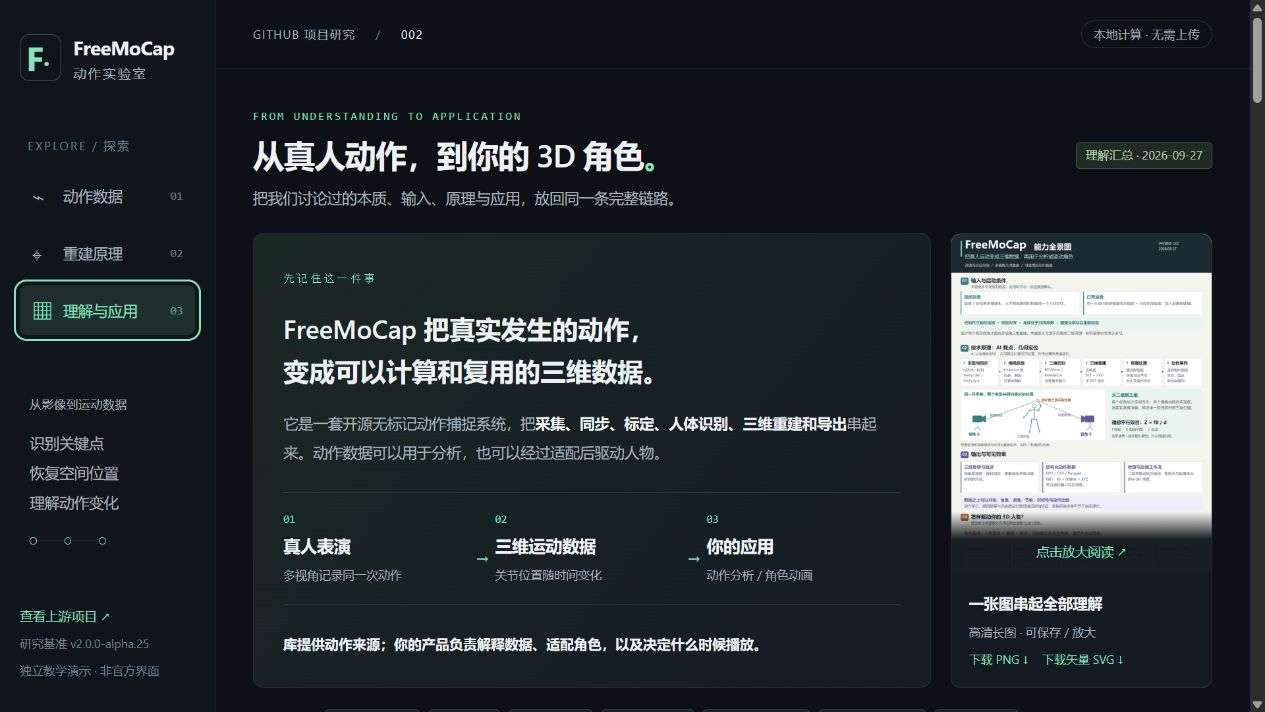
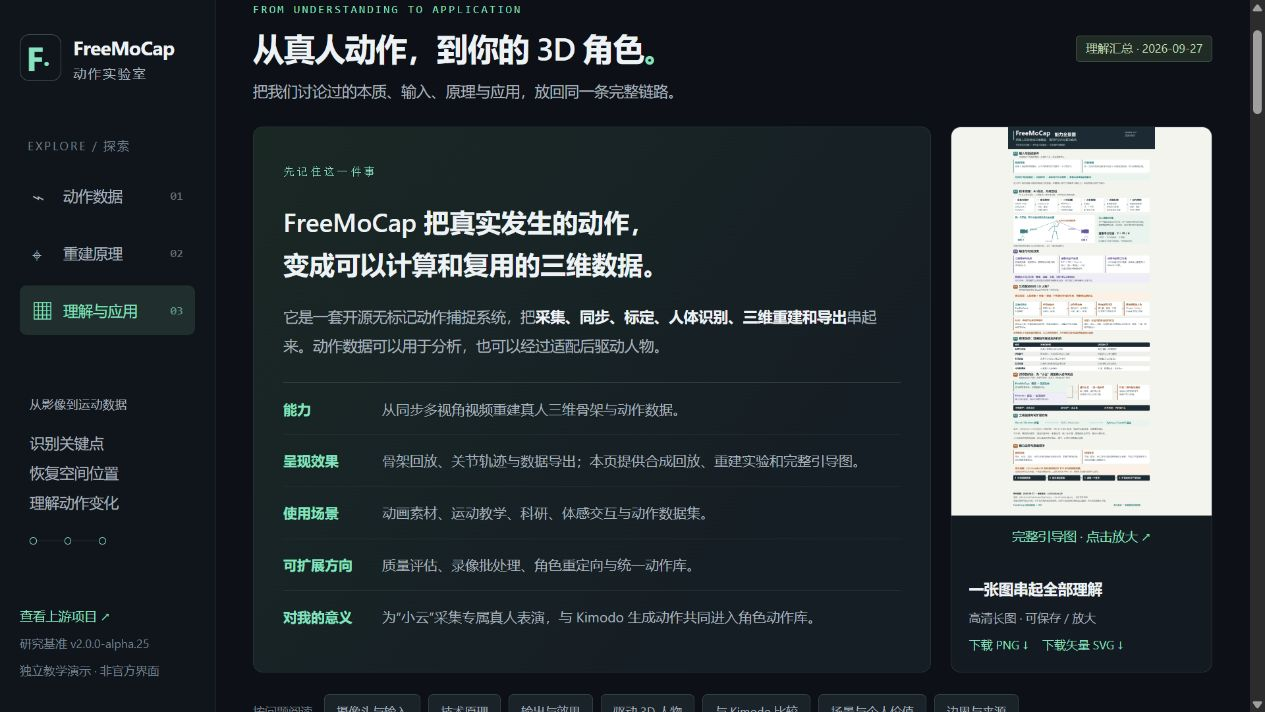
docs: link verified FreeMoCap deployment and public preview

diff --git a/README.md b/README.md
@@ -15,7 +15,7 @@
 
 | 编号 | 项目与研究入口 | 摘要 | 研究状态 | 参考来源 | Web 演示 |
 | --- | --- | --- | --- | --- | --- |
-| 002 | [FreeMoCap 动作实验室](projects/002-freemocap-lab/README.md) | **能力：**从同步多视角视频重建真人三维骨架与动作数据<br>**呈现效果：**骨架回放、关节轨迹及数据导出，本页提供合成回放与重建实验<br>**使用场景：**动画素材、运动教学、科研、体感交互与动作数据集<br>**可扩展方向：**质量评估、批处理、角色重定向与统一动作库<br>**对我的意义：**为“小云”采集专属真人表演，与 Kimodo 生成动作共同进入角色动作库。 | 已完成 | [GitHub](https://github.com/freemocap/freemocap) | — |
+| 002 | [FreeMoCap 动作实验室](projects/002-freemocap-lab/README.md) | **能力：**从同步多视角视频重建真人三维骨架与动作数据<br>**呈现效果：**骨架回放、关节轨迹及数据导出，本页提供合成回放与重建实验<br>**使用场景：**动画素材、运动教学、科研、体感交互与动作数据集<br>**可扩展方向：**质量评估、批处理、角色重定向与统一动作库<br>**对我的意义：**为“小云”采集专属真人表演，与 Kimodo 生成动作共同进入角色动作库。 | 已完成 | [GitHub](https://github.com/freemocap/freemocap) | [在线体验](https://yydshly.github.io/0927_codex_project/002-freemocap-lab/#capabilities) |
 | 003 | [Lofi Cities](projects/003-lofi-cities/README.md) | **能力：**动态城市、实时合成音乐与环境混音<br>**效果：**可调节的沉浸氛围<br>**场景：**阅读、工作、放松<br>**扩展：**物件联动、时间变化与空间分享<br>**对我：**用独立产品“栖间”验证可保存、可交互的个人环境。 | 已完成 | [Lofi Cities · Istanbul](https://loficities.com/istanbul/) | [在线体验](https://yydshly.github.io/0927_codex_project/003-lofi-cities/) |
 
 ### 项目图片

diff --git a/docs/DEPLOYMENT.md b/docs/DEPLOYMENT.md
@@ -10,7 +10,7 @@
 - Lofi Cities 独立演示：`https://yydshly.github.io/0927_codex_project/003-lofi-cities/`
 - 产品理解：演示地址加 `#understanding`。
 
-003 已于 2026-09-27 完成首次发布和远端网页验证。002 加入本次发布；远端资源与交互验证成功后回填 `project.json` 的 `demo` 字段。
+002 与 003 均已于 2026-09-27 完成发布和远端网页验证，正式地址已写入各自 `project.json` 的 `demo` 字段。FreeMoCap 的五项加粗摘要、完整引导图及 150% 缩放、演示切换和合成 NPY 解析回放已通过公网检查；脚本、样式、PNG / SVG、数据样例与既有 Lofi Cities 页面均返回 HTTP 200。[FreeMoCap 首次成功部署](https://github.com/yydshly/0927_codex_project/actions/runs/36295964557)。
 
 ## 构建和发布
 
@@ -27,7 +27,7 @@ python scripts/build_site.py
 
 推送到 `main` 的相关修改，或手动运行 Deploy research demos 工作流，都会执行检查、构建、上传 Pages artifact 和部署。仓库 Settings → Pages 使用 GitHub Actions 来源。发布任务仅授予 `pages: write` 与 `id-token: write`，不在代码或浏览器中放入部署密钥。
 
-站点使用相对资源路径与 hash 路由，适配 `/0927_codex_project/003-lofi-cities/` 子路径。只发布构建后的静态资源，不发布开发测试、依赖目录或本地数据。
+站点使用相对资源路径与 hash 路由，适配 `/0927_codex_project/002-freemocap-lab/` 和 `/0927_codex_project/003-lofi-cities/` 子路径。只发布构建后的静态资源，不发布开发测试、依赖目录或用户本地数据。
 
 ## 增加其他子项目
 

diff --git a/projects/002-freemocap-lab/README.md b/projects/002-freemocap-lab/README.md
@@ -10,7 +10,7 @@
 
 **对我的意义：** 为桌面女友“小云”录制有个人动作习惯的专属表演，与 Kimodo 生成的动作共同进入角色动作库，由对话与事件系统选择播放。
 
-[返回总索引](../../README.md) · [上游仓库](https://github.com/freemocap/freemocap) · [研究笔记](notes/research.md) · [运行说明](web/README.md)
+[在线体验：理解与应用](https://yydshly.github.io/0927_codex_project/002-freemocap-lab/#capabilities) · [返回总索引](../../README.md) · [上游仓库](https://github.com/freemocap/freemocap) · [研究笔记](notes/research.md) · [运行说明](web/README.md)
 
 ## 一张图理解 FreeMoCap
 
@@ -57,7 +57,7 @@
     npm test
     npm run build
 
-静态产物在 web/dist/，使用相对资源路径，适合仓库既定的 GitHub Pages 子路径。当前未上线，project.json 的 demo 为空。
+静态产物在 web/dist/，使用相对资源路径，适配仓库既定的 GitHub Pages 子路径。已于 2026-09-27 上线，纳入仓库统一站点，与 Lofi Cities 一起发布。公网摘要、完整长图缩放、演示切换与合成 NPY 解析回放已验证；[部署记录](https://github.com/yydshly/0927_codex_project/actions/runs/36295964557)。
 
 ## 建议体验顺序
 

diff --git a/projects/002-freemocap-lab/assets/README.md b/projects/002-freemocap-lab/assets/README.md
@@ -2,9 +2,9 @@
 
 - motion-overview.png：本子项目三维骨架、膝角曲线、双视角投影的实际网页截图。
 - geometry-lab.png：双目几何教学实验截图。
-- understanding-overview.png：2026-09-27 更新后的“理解与应用”页面首屏实测截图。
+- understanding-overview.png：2026-09-27 已上线的“理解与应用”页面实测截图，显示五项加粗摘要与完整引导图。
 
-截图于 2026-09-26 通过浏览器工具获得。内容是本项目的合成教学演示，不是 FreeMoCap 官方界面或实拍结果。未使用第三方图片或图标包。
+动作与几何截图于 2026-09-26 通过浏览器工具获得；理解页面截图于 2026-09-27 从 GitHub Pages 公网获取。内容是本项目的合成教学演示，不是 FreeMoCap 官方界面或实拍结果。未使用第三方图片或图标包。
 
 ## 能力全景图
 

diff --git a/projects/002-freemocap-lab/web/README.md b/projects/002-freemocap-lab/web/README.md
@@ -27,7 +27,7 @@
 
 构建输出在 dist/。所有资源采用相对路径，支持 /0927_codex_project/002-freemocap-lab/；hash 导航无需服务端路由。无 CDN 或外部请求依赖。
 
-本次未上线。不单独发布覆盖整个仓库的 Pages 站点，可将 dist/ 接入仓库将来的统一发布产物。
+已于 2026-09-27 发布到 [GitHub Pages](https://yydshly.github.io/0927_codex_project/002-freemocap-lab/#capabilities)。仓库的 `scripts/build_site.py` 将本项目与 Lofi Cities 合并为统一发布产物，配置和维护方法见 [部署说明](../../../docs/DEPLOYMENT.md)。公网已验证五项加粗摘要、完整长图及 150% 缩放、页面切换、合成 NPY 样例解析回放；PNG / SVG、样例、样式与脚本均返回 HTTP 200，未观察到浏览器脚本错误。
 
 ## NPY 格式
 
